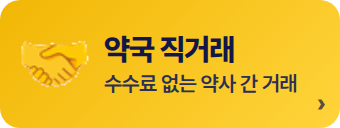
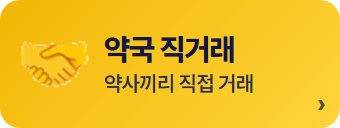
직거래 배너 문구 수정, RSS 실패 시 조용히 건너뛰기
- 직거래 메뉴에 유료열람 매물이 있어 '수수료 없는' 표현을 '약사끼리 직접 거래'로 바꿈
- 네이버가 Actions IP를 막거나 일시 오류여도 워크플로가 실패 메일을 보내지 않게 함

diff --git a/scripts/build.py b/scripts/build.py
@@ -24,7 +24,13 @@ def guess(cat,title):
 def strip(s): return re.sub(r"\s+"," ",re.sub(r"<[^>]+>","",s)).strip()
 def main():
     src=sys.argv[1] if len(sys.argv)>1 else None
-    x=open(src,encoding="utf-8").read() if src else urllib.request.urlopen(urllib.request.Request(RSS,headers={"User-Agent":"Mozilla/5.0"}),timeout=30).read().decode("utf-8")
+    try:
+        x=open(src,encoding="utf-8").read() if src else urllib.request.urlopen(urllib.request.Request(RSS,headers={"User-Agent":"Mozilla/5.0"}),timeout=30).read().decode("utf-8")
+    except Exception as ex:
+        # 네이버가 막거나 일시 오류면 기존 페이지를 그대로 두고 조용히 끝냄(매일 실패 메일 방지)
+        print(f"::warning::RSS 받기 실패, 이번 회차 건너뜀: {ex}"); return
+    if "<item>" not in x:
+        print("::warning::RSS에 글이 없음(차단 화면일 수 있음), 이번 회차 건너뜀"); return
     posts=[]
     for it in re.findall(r"<item>(.*?)</item>",x,re.S):
         g=lambda tag: (re.search(rf"<{tag}>(?:<!\[CDATA\[)?(.*?)(?:\]\]>)?</{tag}>",it,re.S) or [None,""])[1]
